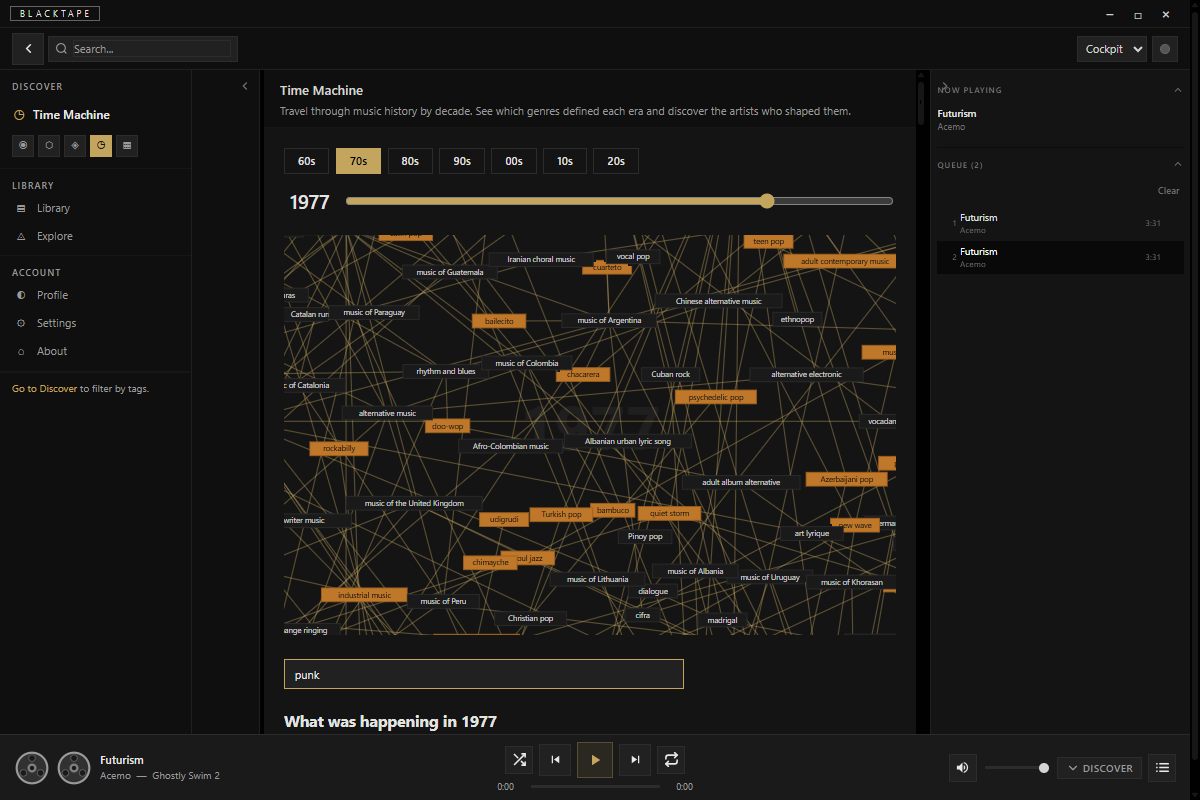
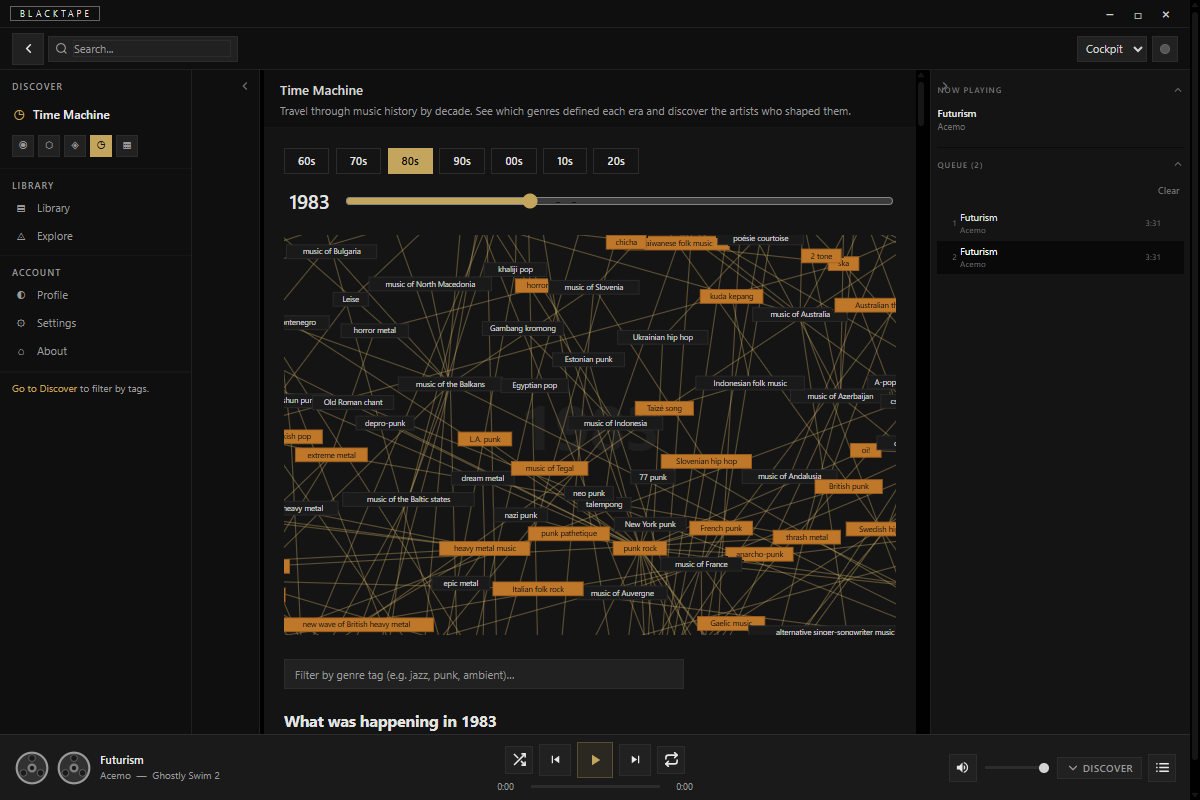
docs: use site copy in README, swap time machine screenshot
Intro now uses the actual tagline and about page prose instead of the
old placeholder text. Removed the Spotify royalty stat. Time Machine
screenshot swapped to the 1983 view which shows more content.

Changed region(s): [[0.2158, 0.2188, 0.7708, 0.9062], [0.2775, 0.1875, 0.37, 0.2188]]

diff --git a/README.md b/README.md
@@ -1,8 +1,10 @@
 # BlackTape
 
-> A music search engine with taste. Indexes all music from open databases. Plays what you own. Helps you discover what you don't — using the open internet as its brain.
+> Dig deeper.
 
-Not a platform. Not a streaming service. Not a blockchain. A discovery engine that becomes an ecosystem.
+A discovery engine, not a streaming platform. BlackTape indexes everything from open databases, embeds players from wherever music already lives, and gets out of the way.
+
+The core inversion: niche artists surface first, not last. The less well-known you are, the more BlackTape rewards your discoverability. Search by tag combination and an underground artist with three matching tags ranks above a major act with fifty. That's the whole premise.
 
 ---
 
@@ -14,8 +16,8 @@ Not a platform. Not a streaming service. Not a blockchain. A discovery engine th
 | **Artist page** — streaming links, tags, discography, queue | **Search** — tag-based results with artist cards |
 | ![Discover — noise rock Japan filter](docs/screenshots/discover.png) | ![Style Map — genre connection graph](docs/screenshots/style-map.png) |
 | **Discover** — filter by tag, country, uniqueness score | **Style Map** — interactive genre connection graph |
-| ![Knowledge Base — post-punk genre page](docs/screenshots/knowledge-base.png) | ![Time Machine — 1977 genre landscape](docs/screenshots/time-machine.png) |
-| **Knowledge Base** — genre pages with key artists and related genres | **Time Machine** — scrub through music history by year |
+| ![Knowledge Base — post-punk genre page](docs/screenshots/knowledge-base.png) | ![Time Machine — 1983 genre landscape](docs/screenshots/time-machine.png) |
+| **Knowledge Base** — genre pages with key artists and related genres | **Time Machine** — see which genres defined each era |
 | ![Local Library — two-pane album browser with covers](docs/screenshots/library.png) | |
 | **Local Library** — scan your own files, play alongside the global index | |
 
@@ -23,11 +25,11 @@ Not a platform. Not a streaming service. Not a blockchain. A discovery engine th
 
 ## The Problem
 
-Music discovery is broken. Streaming platforms show you the same stuff. Every "discovery" feature is really a retention feature — designed to keep you inside one walled garden. 87% of songs on Spotify below 1,000 streams earn zero royalties. Artists are invisible unless an algorithm decides otherwise.
+Streaming has solved access and broken discovery. Every recording ever made is theoretically available — yet the same few thousand artists capture almost everything. The algorithms that decide what you hear next are built to maximise session length, not to help you find something you've never encountered.
 
-The data to fix this already exists in the open — MusicBrainz (2.6M artists, CC0), Discogs (18M+ releases), and the music itself lives on Bandcamp, SoundCloud, YouTube, and artist websites. Nobody has assembled the open pieces into a coherent discovery experience.
+The underground isn't hidden because it doesn't exist. It's hidden because it doesn't perform.
 
-BlackTape does that.
+The data to fix this already exists in the open — MusicBrainz (2.6M artists, CC0), Discogs (18M+ releases), and the music itself lives on Bandcamp, SoundCloud, YouTube, and artist websites. BlackTape assembles the open pieces into a coherent discovery experience.
 
 ---
 
